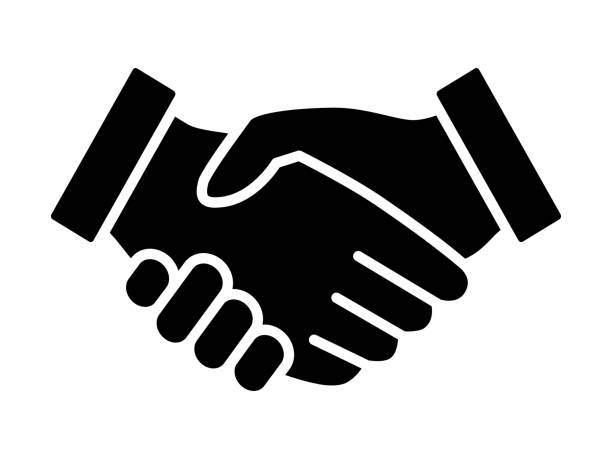
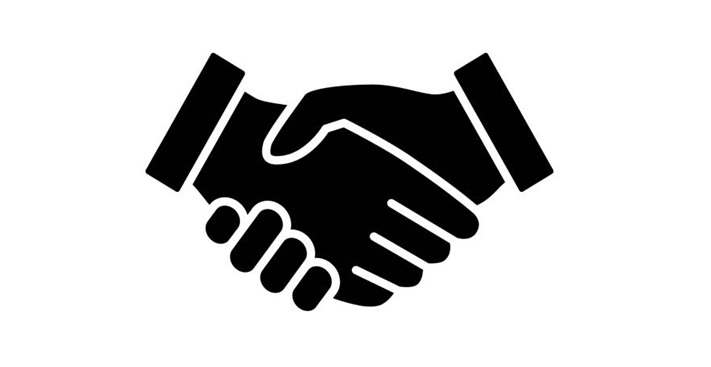
add

Changed region(s): [[0.0621, 0.1499, 0.9314, 0.8692]]

diff --git a/events/winter25.html b/events/winter25.html
@@ -1389,8 +1389,7 @@
             <div class="col-sm-12">
               <h3>Judges</h3>
               <div id="8c2cc343d2b73ac7cabd5cc2abbf8832wrapper">
-                <div id="8c2cc343d2b73ac7cabd5cc2abbf8832"><a
-                    href="https://icfp24.sigplan.org/details/icfp-2024-papers/37/Refinement-Types-from-Light-to-Deep-Verification"
+                <div id="8c2cc343d2b73ac7cabd5cc2abbf8832"><a href="https://www.marksantolucito.com"
                     class="highlight-carousel-item navigate">
                     <div class="thumbnail"><span style="position:absolute;"></span><img alt="Mark Santolucito"
                         src="https://media.licdn.com/dms/image/v2/C4E03AQEnmdTDfBzIYg/profile-displayphoto-shrink_200_200/profile-displayphoto-shrink_200_200/0/1662817362451?e=2147483647&v=beta&t=8dOgv1HsmHP7rIxQ_Yj4UqGXeEYybY2Nh3xqfDea6vU"
@@ -1402,8 +1401,7 @@
                         </div>
                       </div>
                     </div>
-                  </a><a href="https://icfp24.sigplan.org/details/icfp-2024-papers/36/Requirements-are-All-You-Need"
-                    class="highlight-carousel-item navigate">
+                  </a><a href="https://www.mariahwang.com" class="highlight-carousel-item navigate">
                     <div class="thumbnail"><span style="position:absolute;"></span><img alt="Maria Hwang"
                         src="https://media.licdn.com/dms/image/v2/C4E03AQEcjOXw_tvFag/profile-displayphoto-shrink_200_200/profile-displayphoto-shrink_200_200/0/1612036238074?e=2147483647&v=beta&t=-ieWn6C4zMaiREgrPWplBRIEpgfkiuC3k8tz_y4zovM"
                         class="outputimage owl-top" />
@@ -1414,8 +1412,7 @@
                         </div>
                       </div>
                     </div>
-                  </a><a href="https://icfp24.sigplan.org/details/icfp-2024-papers/38/Capabilities-for-Control"
-                    class="highlight-carousel-item navigate">
+                  </a><a href="" class="highlight-carousel-item navigate">
                     <div class="thumbnail"><span style="position:absolute;"></span><img alt="Elven Shum"
[1 lines of base64/hex data omitted]
                         class="outputimage owl-top" />
@@ -1482,11 +1479,24 @@
               <div class="panel-title">Supporters</div>
             </div>
             <table class="table table-hover">
-              <tr href="https://www.lumiere-education.com/" title="Lumiere" class="clickable-row new-window">
+              <tr title="Lumiere">
                 <td><span class="supporter-logo "><img alt="Lumiere" src="images/Lumiere.png"
                       class="outputimage" /></span></td>
-                <td>Lumiere Education <br> Diamond Sponsor</td>
+                <td><a href="https://www.lumiere-education.com/">Lumiere Education</a> <br> Gold Sponsor</td>
               </tr>
+
+              <tr title="Bricks Consulting">
+                <td><span class="supporter-logo "><img alt="Bricks Consulting" src="images/bricks.png"
+                      class="outputimage" /></span></td>
+                <td><a href="mailto:jamie@bricksconsulting.com">Bricks Consulting</a> <br> Gold Sponsor</td>
+              </tr>
+
+              <tr title="Sage">
+                <td><span class="supporter-logo "><img alt="The Sage" src="images/sage.jpg"
+                      class="outputimage" /></span></td>
+                <td><a href="mailto:jamie@bricksconsulting.com">The Sage</a> <br> Gold Sponsor</td>
+              </tr>
+
               <tr title="Become a Sponsor">
                 <td><span class="supporter-logo "><img alt="Become a Sponsor" src="images/hands.jpg"
                       class="outputimage" /></span></td>
